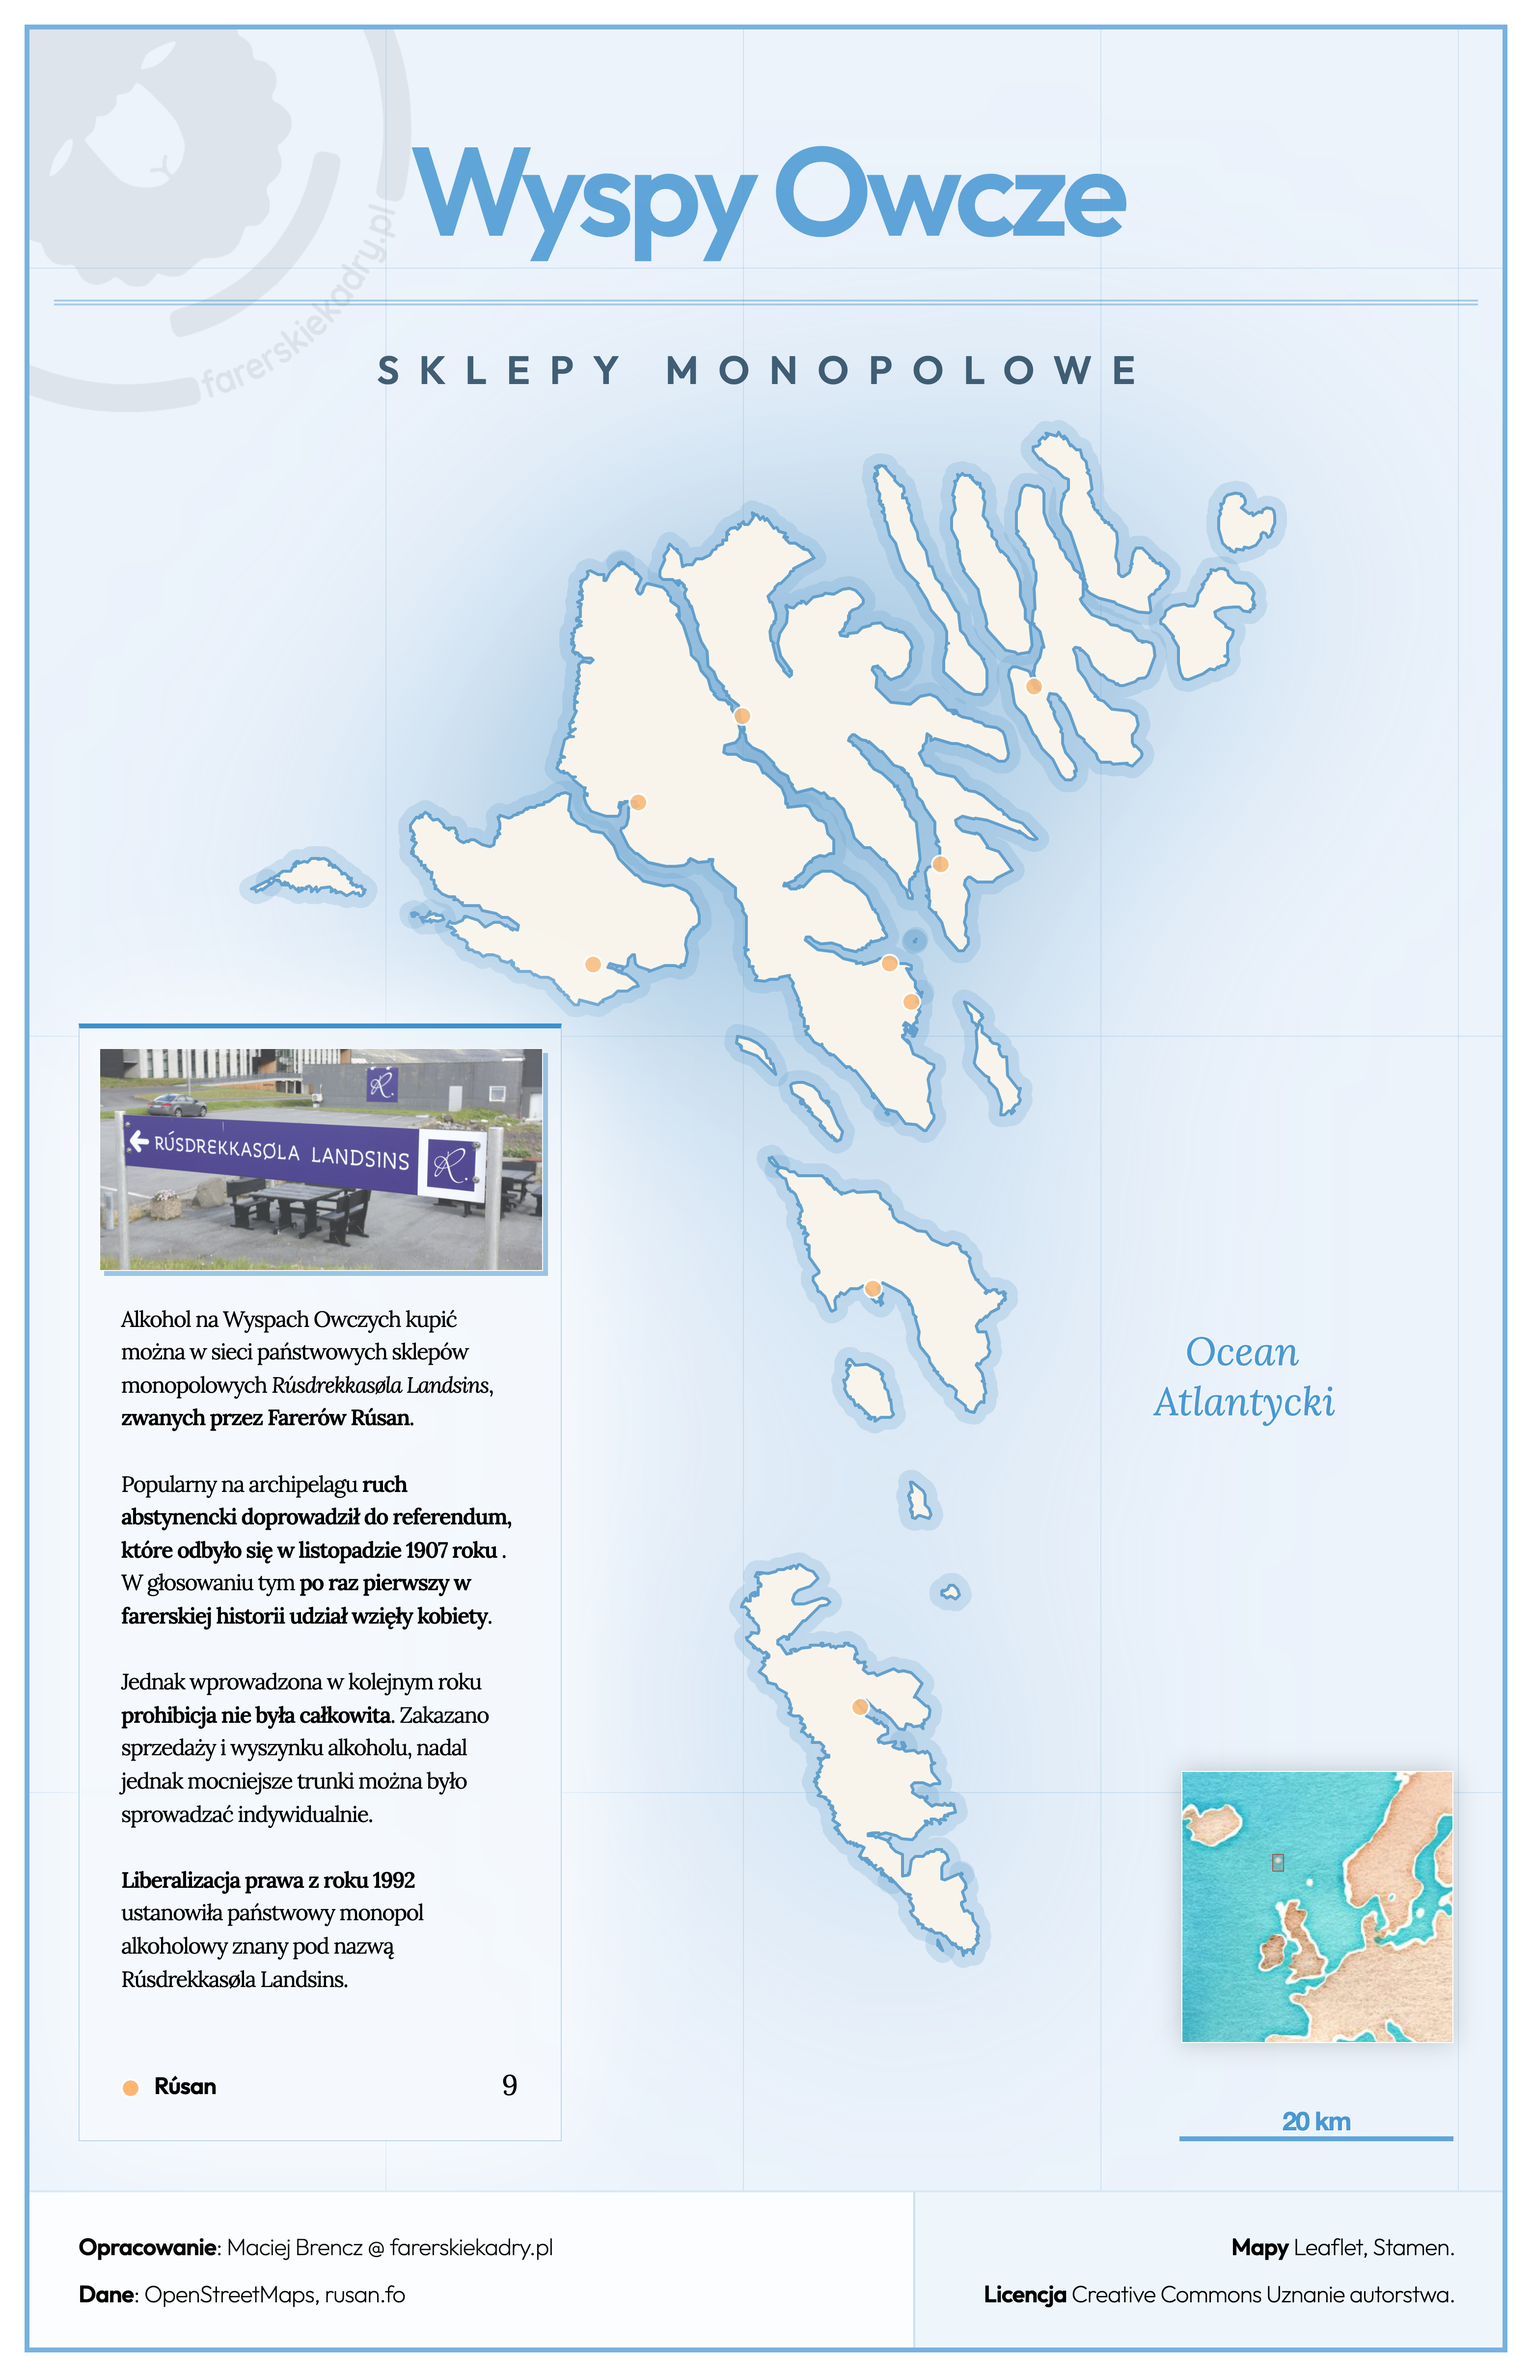
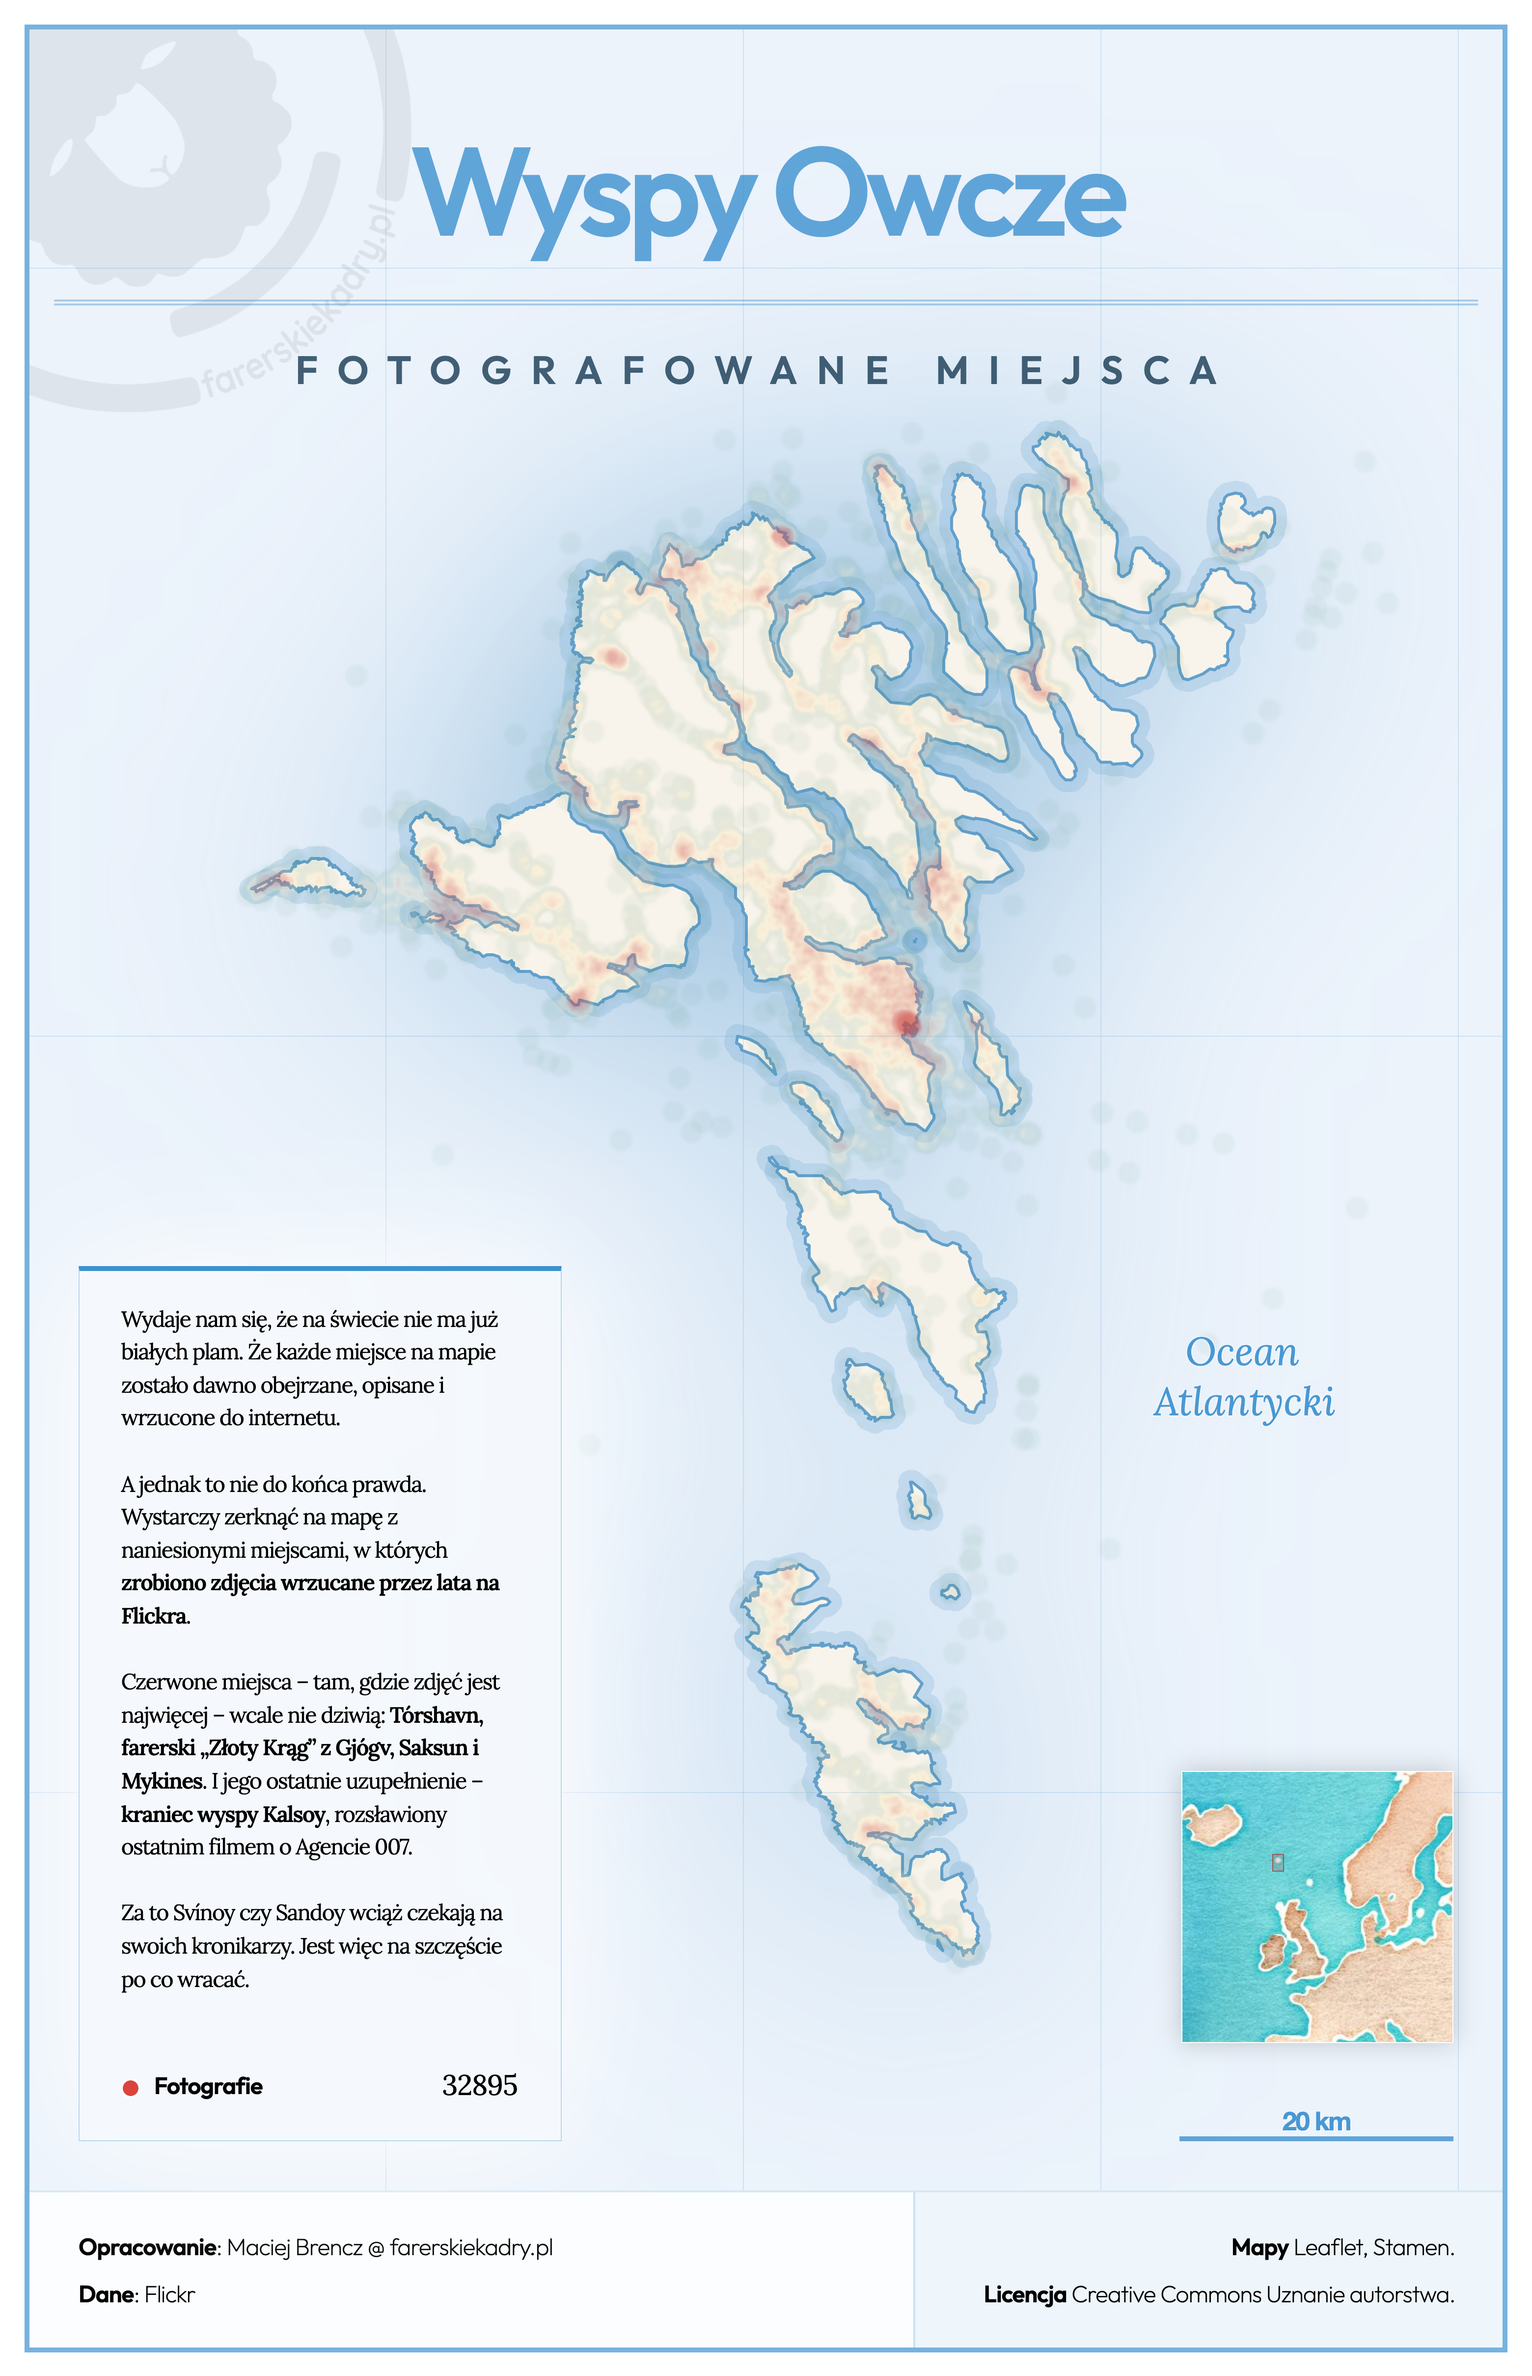
Most photographed places

diff --git a/faroe.html b/faroe.html
@@ -16,6 +16,10 @@
 	<script src="static/map.js"></script>
 	<script src="static/faroe.js"></script>
 
+	<!-- for heatmaps -->
+	<script src="https://cdnjs.cloudflare.com/ajax/libs/leaflet.heat/0.2.0/leaflet-heat.js"></script>
+	<script src="https://cdn.jsdelivr.net/npm/papaparse@5.3.0/papaparse.min.js"></script>
+
 	<link rel="license" href="https://creativecommons.org/licenses/by/4.0/" />
 
 	<body lang="en">
@@ -24,28 +28,28 @@
 				<h1 lang="en">Faroe Islands</h1>
 				<h1 lang="pl">Wyspy Owcze</h1>
 
-				<h2 lang="en">Off-license stores</h2>
-				<h2 lang="pl">Sklepy monopolowe</h2>
+				<h2 lang="en">Most photographed places</h2>
+				<h2 lang="pl">Fotografowane miejsca</h2>
 
 				<legend>
-					<img src="https://farerskiekadry.pl/wp-content/uploads/2026/01/Rusan_Klaksvik.jpg">
+					<!-- <img src="https://farerskiekadry.pl/wp-content/uploads/2026/01/Rusan_Klaksvik.jpg"> -->
 					<p lang="en">
-						<em>Rúsdrekkasøla Landsins</em>, better known as <em>Rúsan</em>, is the national alcohol retailer of the Faroe Islands.
+						We like to think there are no blank spots left in the world. That every place on the map has long since been described and uploaded to the internet.
 						<br><br>
-						The temperance movement led to <strong>a referendum on 6 November 1907 to ban alcohol</strong> — <strong>the first time Faroese women were allowed to vote</strong>.
+						Or maybe that is not entirely true. All it takes is a look at a map with the <strong>locations of photos that have been uploaded to Flickr</strong>.
 						<br><br>
-						Even though the ban passed by a wide margin, <strong>it wasn’t a total ban</strong>. It only stopped the sale and serving of alcohol, while people were still allowed to import it for their own use.
+						The red patches – the places photographed most often – are no surprise: <strong>Tórshavn, the Faroese “Golden Circle” of Gjógv, Saksun, and Mykines</strong>. Plus its latest addition – the tip of the island of Kalsoy, made famous by the most recent James Bond film.
 						<br><br>
-						<strong>In 1992, alcohol laws were liberalised</strong>, setting up Rúsdrekkasøla Landsins as the public monopoly for alcohol sales.
+						Svínoy and Sandoy, on the other hand, are still waiting for their chroniclers. Yet another reason to visit Faroe Islands.
 					</p>
 					<p lang="pl">
-						Alkohol na Wyspach Owczych kupić można w sieci państwowych sklepów monopolowych <em>Rúsdrekkasøla Landsins</em>, <strong>zwanych przez Farerów Rúsan</strong>.
+						Wydaje nam się, że na świecie nie ma już białych plam. Że każde miejsce na mapie zostało dawno obejrzane, opisane i wrzucone do internetu.
 						<br><br>
-						Popularny na archipelagu <strong>ruch abstynencki doprowadził do referendum, które odbyło się w listopadzie 1907 roku </strong>. W głosowaniu tym <strong>po raz pierwszy w farerskiej historii udział wzięły kobiety</strong>.
+						A jednak to nie do końca prawda. Wystarczy zerknąć na mapę z naniesionymi miejscami, w których <strong>zrobiono zdjęcia wrzucane przez lata na Flickra</strong>.
 						<br><br>
-						Jednak wprowadzona w kolejnym roku <strong>prohibicja nie była całkowita</strong>. Zakazano sprzedaży i wyszynku alkoholu, nadal jednak mocniejsze trunki można było sprowadzać indywidualnie.
+						Czerwone miejsca – tam, gdzie zdjęć jest najwięcej – wcale nie dziwią: <strong>Tórshavn, farerski „Złoty Krąg” z Gjógv, Saksun i Mykines</strong>. I jego ostatnie uzupełnienie – <strong>kraniec wyspy Kalsoy</strong>, rozsławiony ostatnim filmem o Agencie 007.
 						<br><br>
-						<strong>Liberalizacja prawa z roku 1992</strong> ustanowiła państwowy monopol alkoholowy znany pod nazwą Rúsdrekkasøla Landsins.
+						Za to Svínoy czy Sandoy wciąż czekają na swoich kronikarzy. Jest więc na szczęście po co wracać.
 					</p>
 					<ul>
 						<!--<li><span class="marker black"></span><span lang="en">major towns</span><span lang="pl">główne miasta</span></li>-->
@@ -83,7 +87,7 @@
 						<strong lang="en">Research</strong><strong lang="pl">Opracowanie</strong>: Maciej Brencz @ farerskiekadry.pl
 					</p>
 					<p>
-						<strong lang="en">Data</strong><strong lang="pl">Dane</strong>: <!-- Landsverk, Umhvørvisstovan, Strandfaraskip Landsins, SEV, -->OpenStreetMaps, rusan.fo<!--, WikiData,--><!--Visit Faroe Islands-->
+						<strong lang="en">Data</strong><strong lang="pl">Dane</strong>: <!-- Landsverk, Umhvørvisstovan, Strandfaraskip Landsins, SEV, --><!--OpenStreetMaps, rusan.fo--><!--, WikiData,--><!--Visit Faroe Islands,-->Flickr
 					</p>
 				</div>
 
@@ -183,7 +187,7 @@
 				let counts = [];
 				**/
 
-				/**/
+				/**
 				L.geoJSON(await fetchGeoJSON('/geojson/osm-shop-alcohol.json'), {
 					onEachFeature: feature => {
 						const geo = feature.geometry.coordinates;
@@ -206,7 +210,8 @@
 						// 	color = 'green';
 						// }
 
-						L.marker([geo[1], geo[0]], {icon: getIcon(color, '', false/*small*/), pane: `markers-${color}`})
+						// false - small
+						L.marker([geo[1], geo[0]], {icon: getIcon(color, '', false), pane: `markers-${color}`})
 							.addTo(map)
 							.bindPopup(feature.properties.name);
 
@@ -218,6 +223,69 @@
 
 				addLabel('orange', 'Rúsan', 'Rúsan', counts['orange']);
 				/**/
+
+				const res = await fetch('./geojson/flickr-faroe.csv');
+    			res.text().then(function(csvString) {
+					let photosCount = 0;
+
+					// Use PapaParse to transform file into arrays
+					// 53863663194	62.116063	-7.042662	2016-09-09 18:39:35	Dark and gloomy
+					var data = Papa.parse(csvString.trim())
+						.data
+						.filter(
+							function(row) { return row[0] !== 'id'; } // skip the header
+						)
+						.filter(
+							function(row) {
+								// 52967177@N02 - myself - 625 photos
+								// return (row[1] === '52967177@N02');
+
+								// Skip some authors
+								// https://www.flickr.com/photos/99017945@N03 - Dagstovnurin Gjái - 2070 photos
+								return (row[1] !== '99017945@N03');
+							}
+						)
+						.filter(
+							function(row) {
+								// skip photos taken before 1990
+								const takenAt = row[4] || '';
+								const takenAtYear = parseInt(takenAt.split('-')[0], 10);
+								return takenAtYear >= 1990;
+							}
+						)
+						.map(function(row) {
+							// id	owner	lat	lon	date_taken	title	image
+							// 26743559071	129295967@N06	62.009325	-6.774617	1992-08-01 00:00:00	Tórshavn, Faroe Islands, August 1992	https://live.staticflickr.com/7163/26743559071_52cc8b9854_b.jpg
+							const lat = parseFloat(row[2]);
+							const lon = parseFloat(row[3]);
+
+							// minLat = Math.min(minLat, lat);
+							// maxLat = Math.max(maxLat, lat);
+
+							// minLon = Math.min(minLon, lon);
+							// maxLon = Math.max(maxLon, lon);
+
+							photosCount++
+
+							return [ lat, lon ];
+						});
+
+					// Add all points into a heat layer
+					// https://github.com/Leaflet/Leaflet.heat
+					var heat = L.heatLayer(data, {
+						radius: 12,
+						gradient: {0.1: '#006837', 0.2: '#fee08b', 0.4: '#d73027aa', 0.95: '#d73027'},
+						blur: 3,
+						// max: 1,
+						// minOpacity: 0,
+					});
+
+					// Add the heatlayer to the map
+					heat.addTo(map);
+
+					console.log('Heat map added to the map', {heat, photosCount});
+					addLabel('red', 'Photos', 'Fotografie', photosCount);
+				});
 			});
 
 			// console.log(gridsPerCity);

diff --git a/static/map.css b/static/map.css
@@ -397,3 +397,8 @@ section.info p {
     letter-spacing: -.025em;
     line-height: 1.5em;
 }
+
+/* for heatmaps */
+.leaflet-overlay-pane {
+    z-index: 500;
+}
